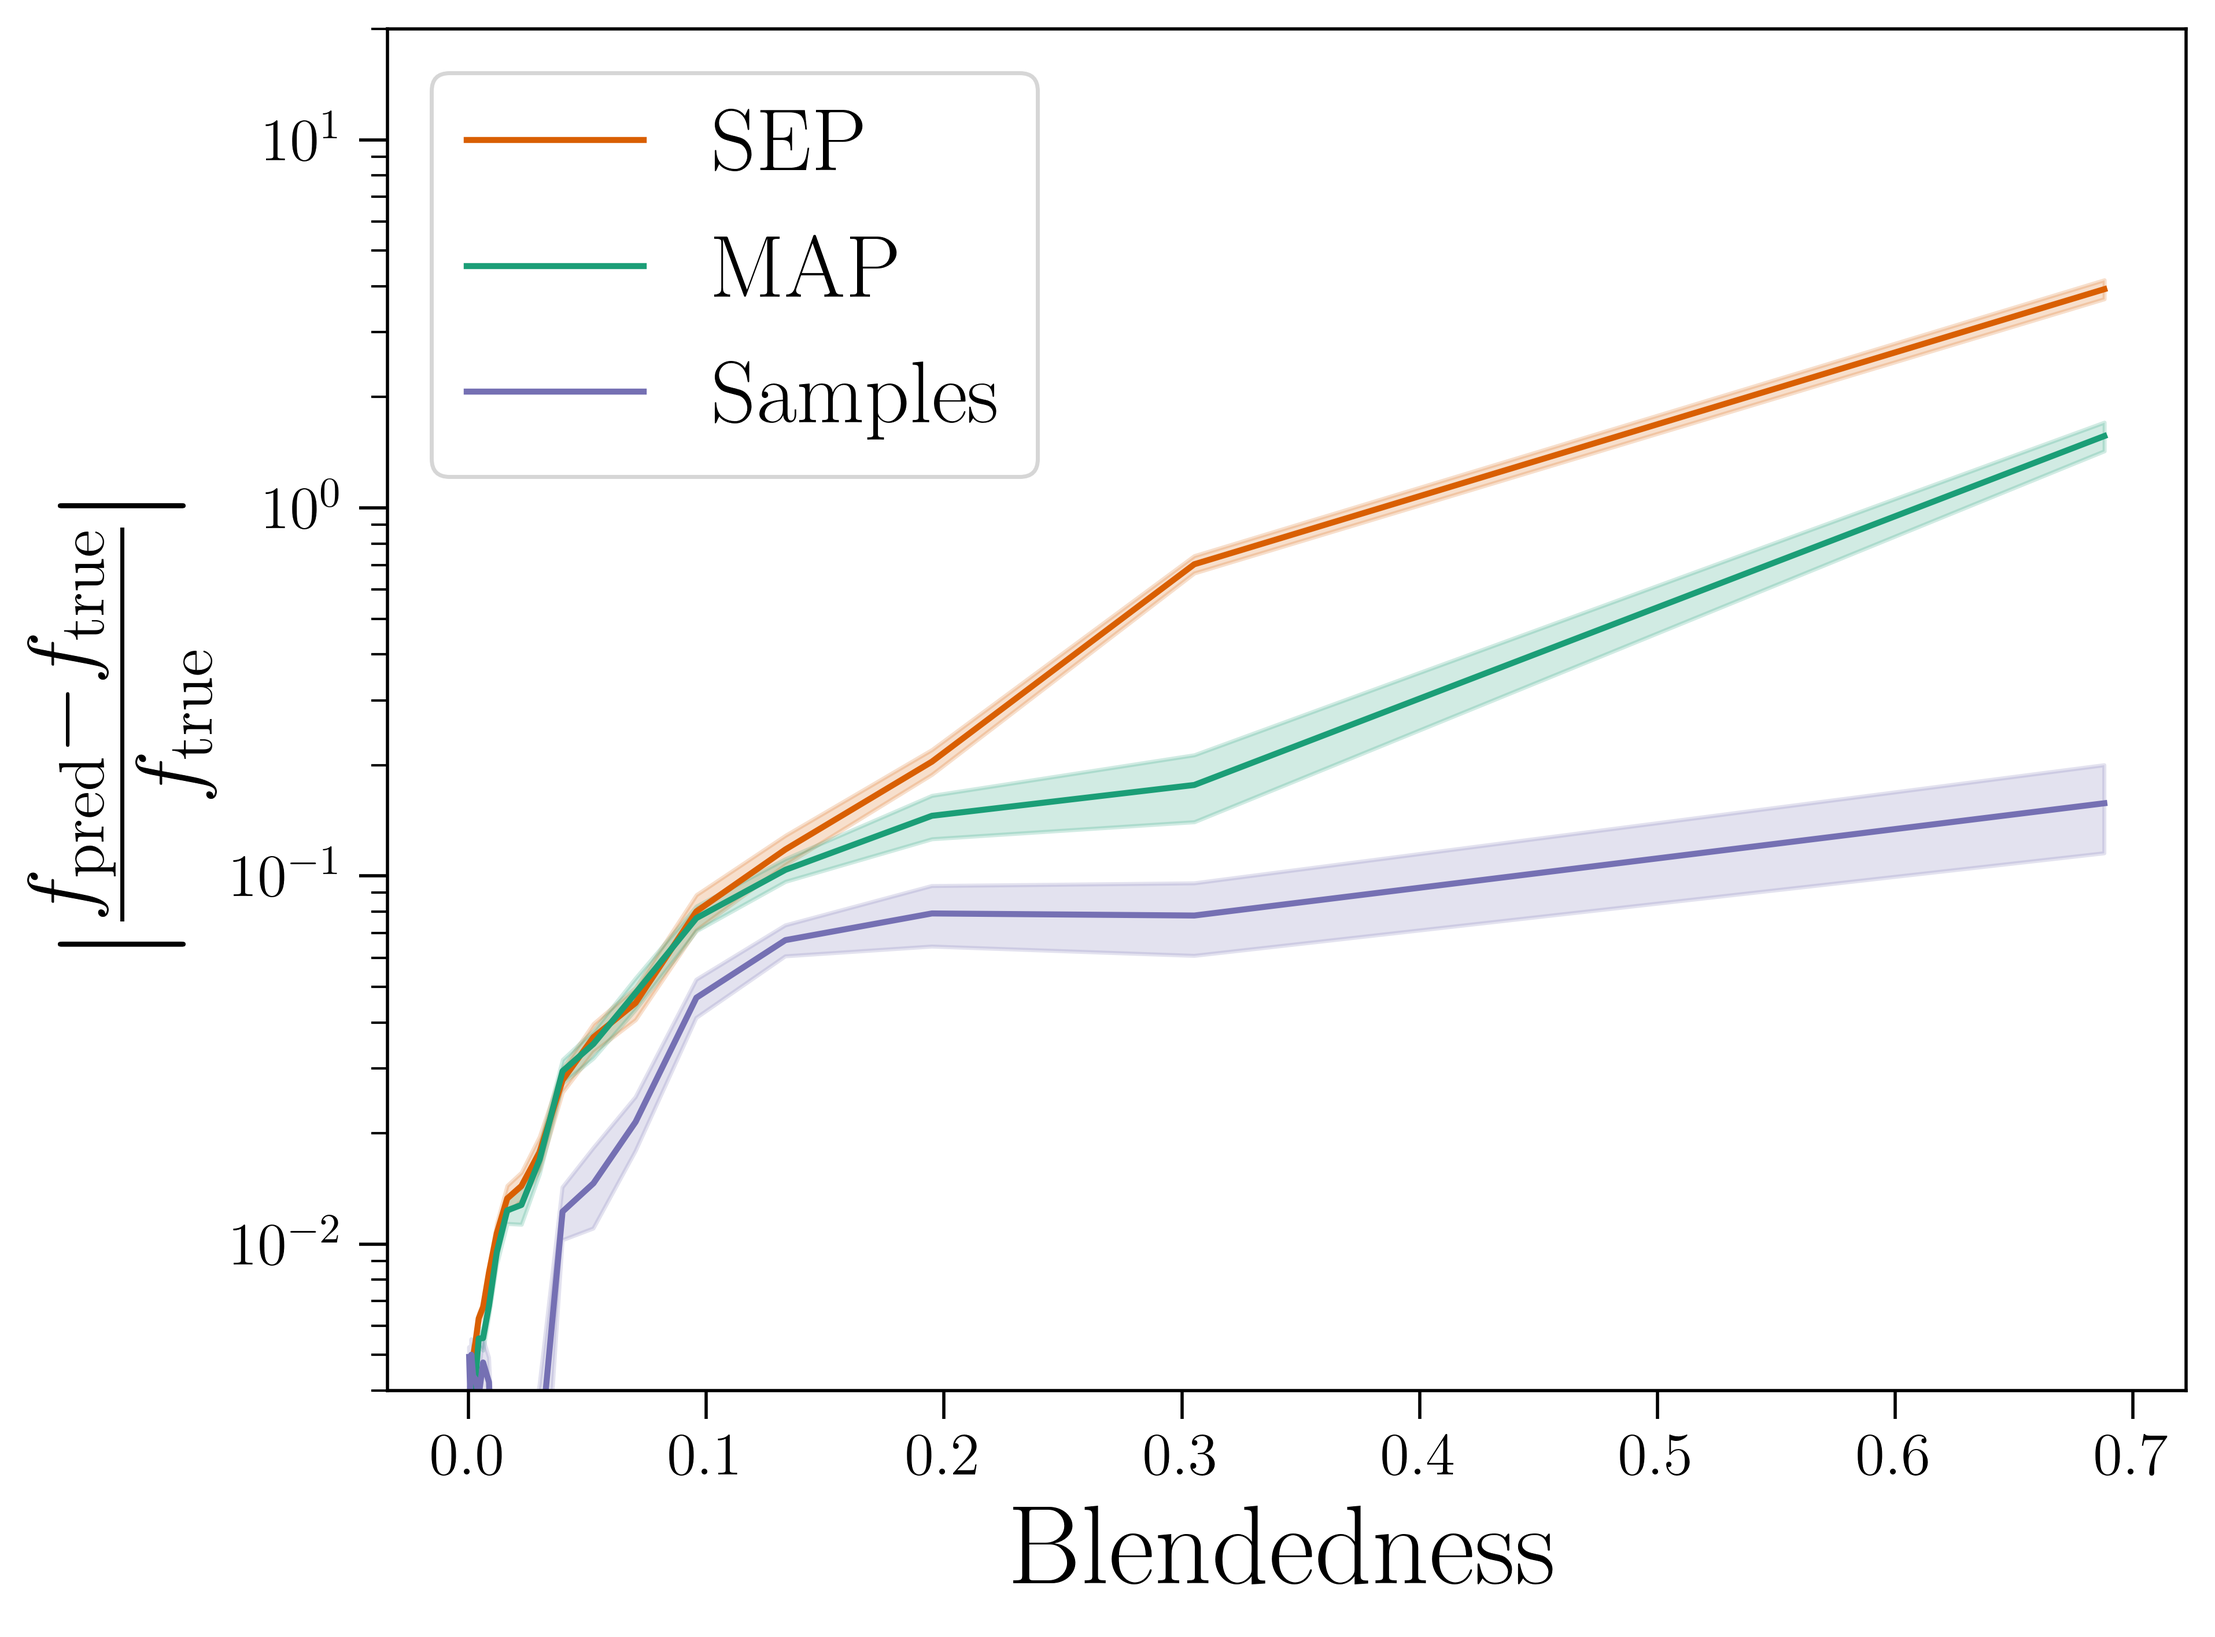
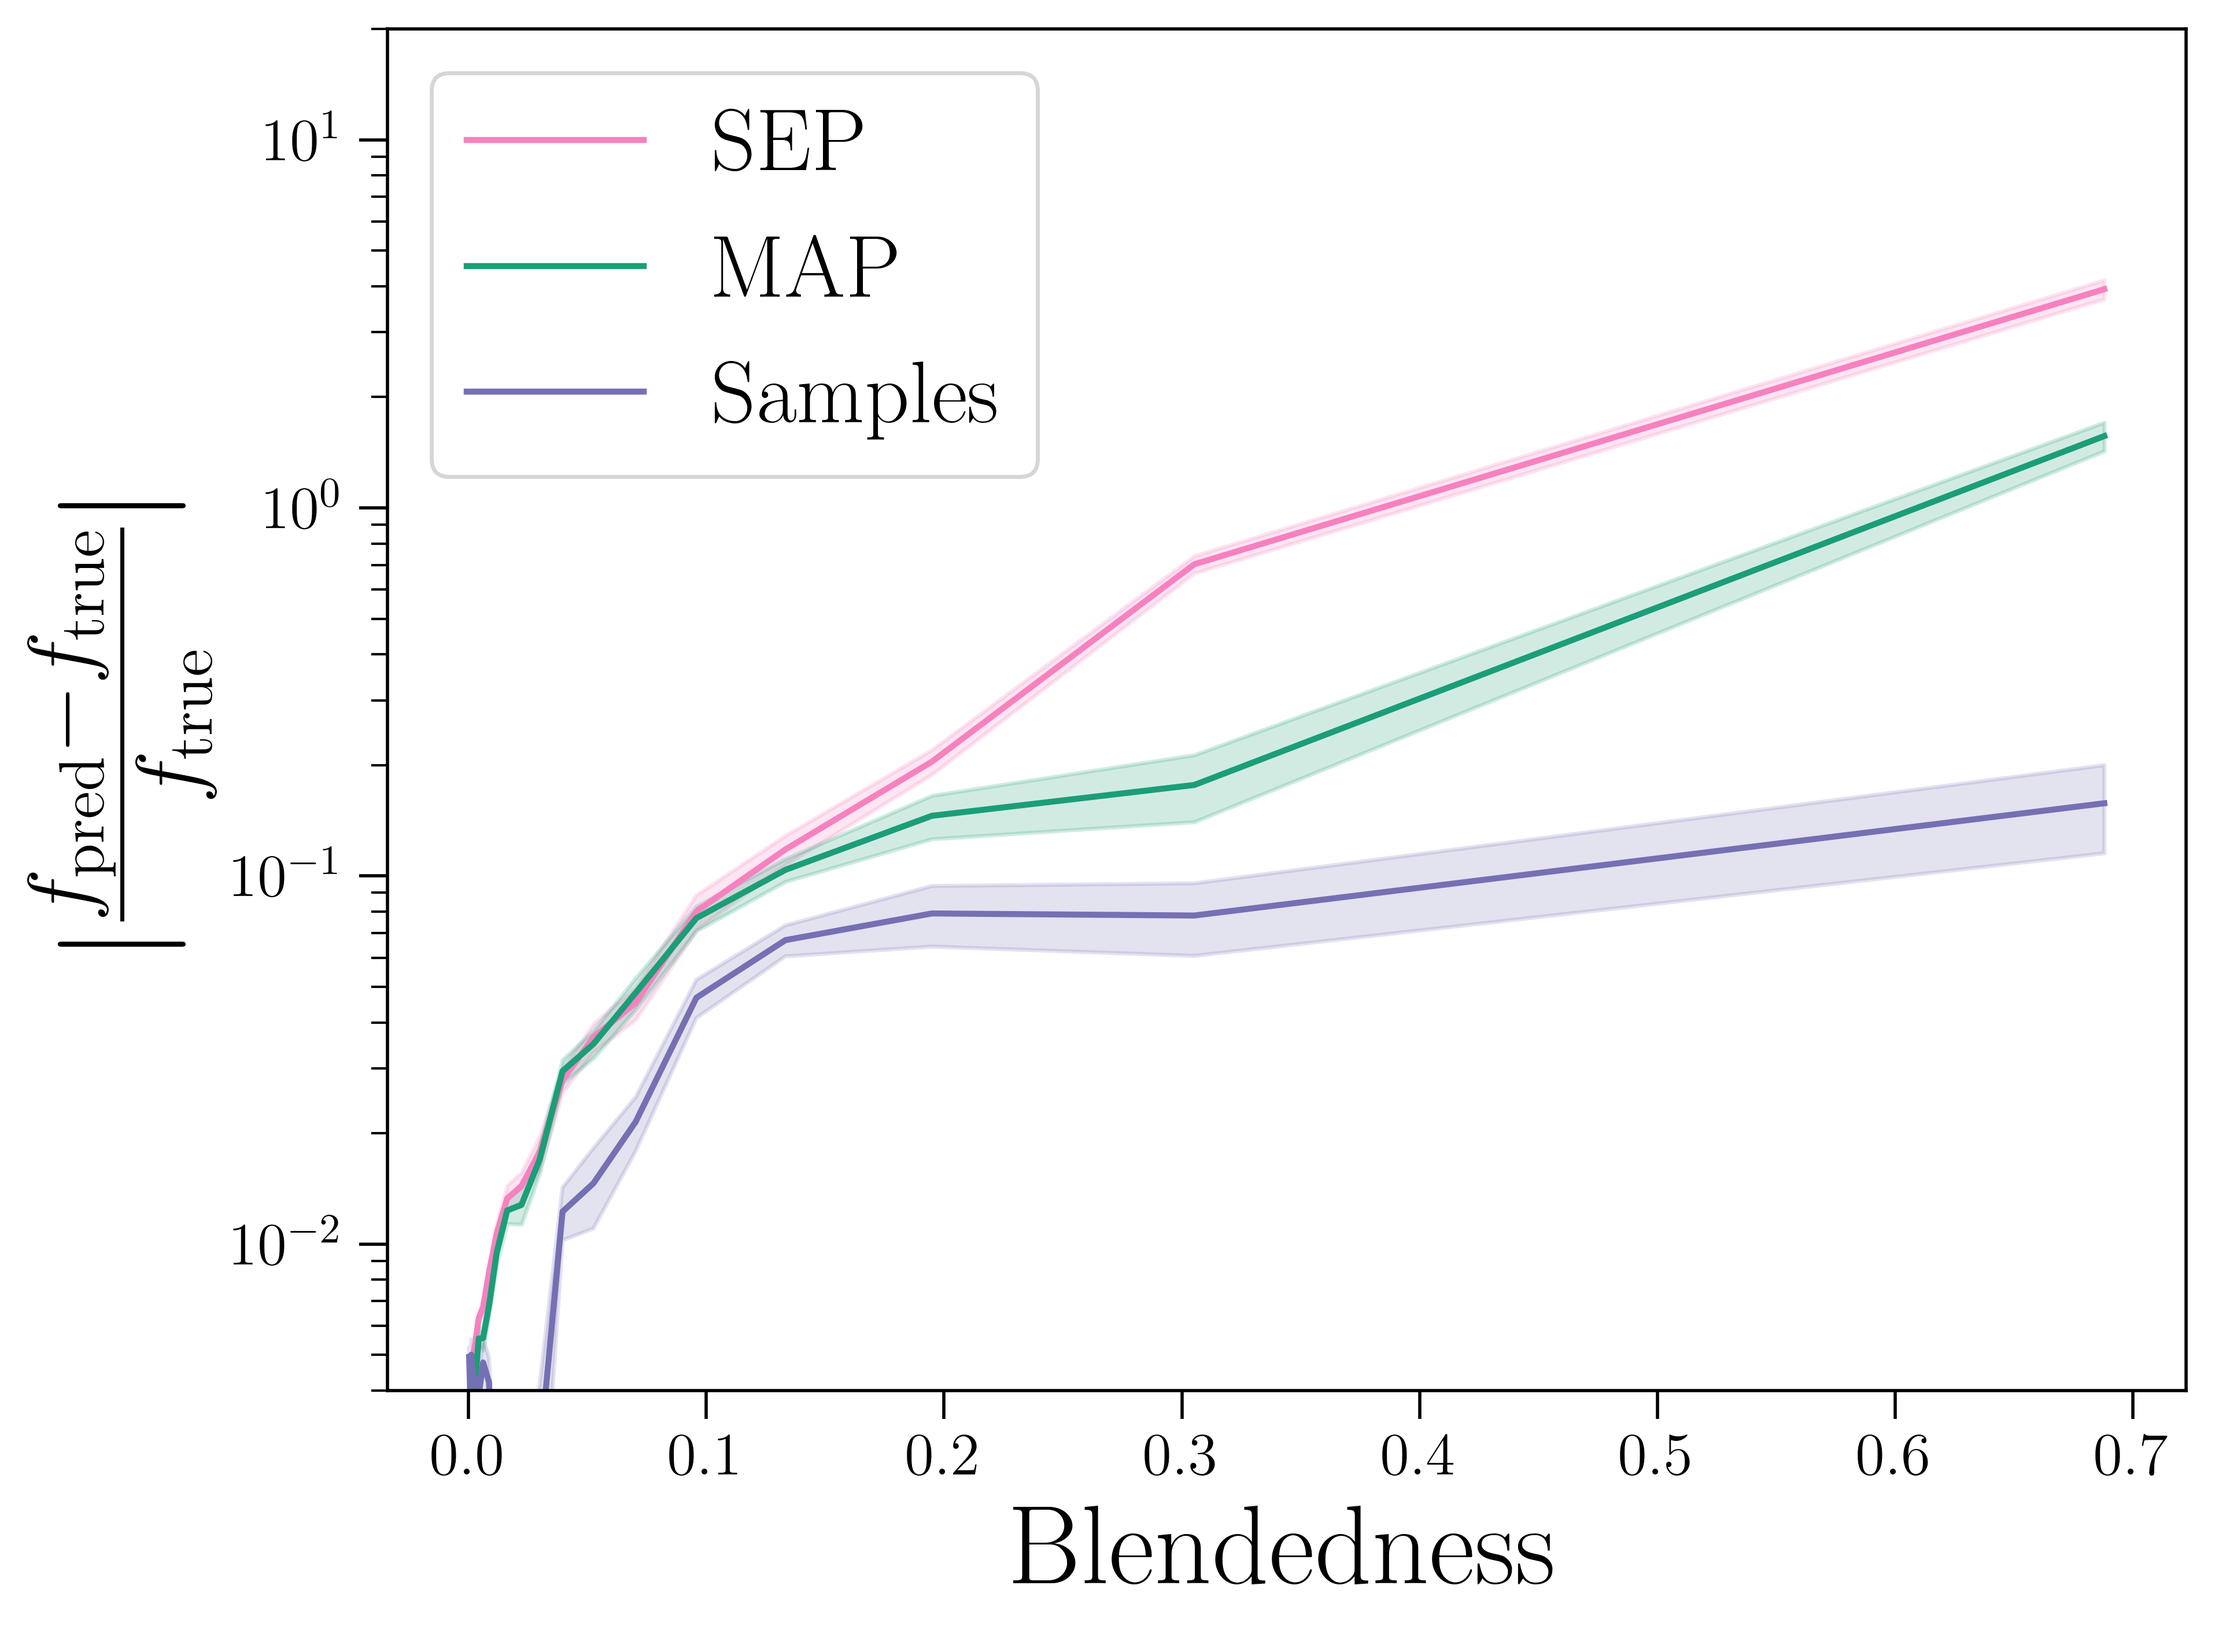
ensure color blind friendly figures

diff --git a/bliss/plotting.py b/bliss/plotting.py
@@ -16,10 +16,10 @@ from torch import Tensor
 CB_color_cycle = [
     "#377eb8",
     "#ff7f00",
+    "#984ea3",
     "#4daf4a",
     "#f781bf",
     "#a65628",
-    "#984ea3",
     "#999999",
     "#e41a1c",
     "#dede00",
@@ -27,7 +27,7 @@ CB_color_cycle = [
 
 c1 = "#1b9e77"
 c2 = "#7570b3"
-c3 = "#d95f02"
+c3 = "#f781bf"
 CLR_CYCLE = [c1, c2, c3]
 
 
